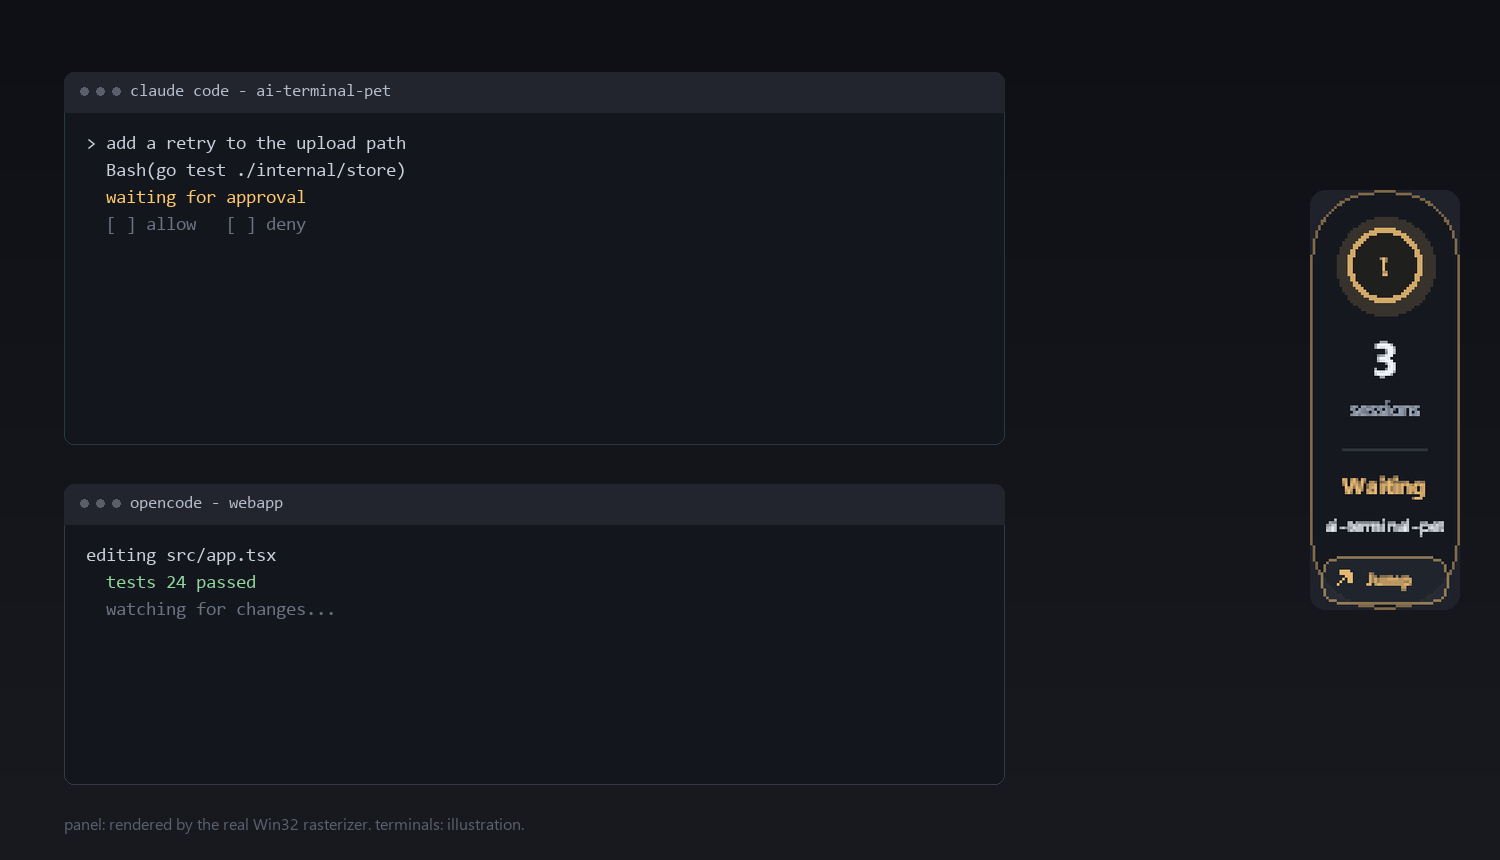
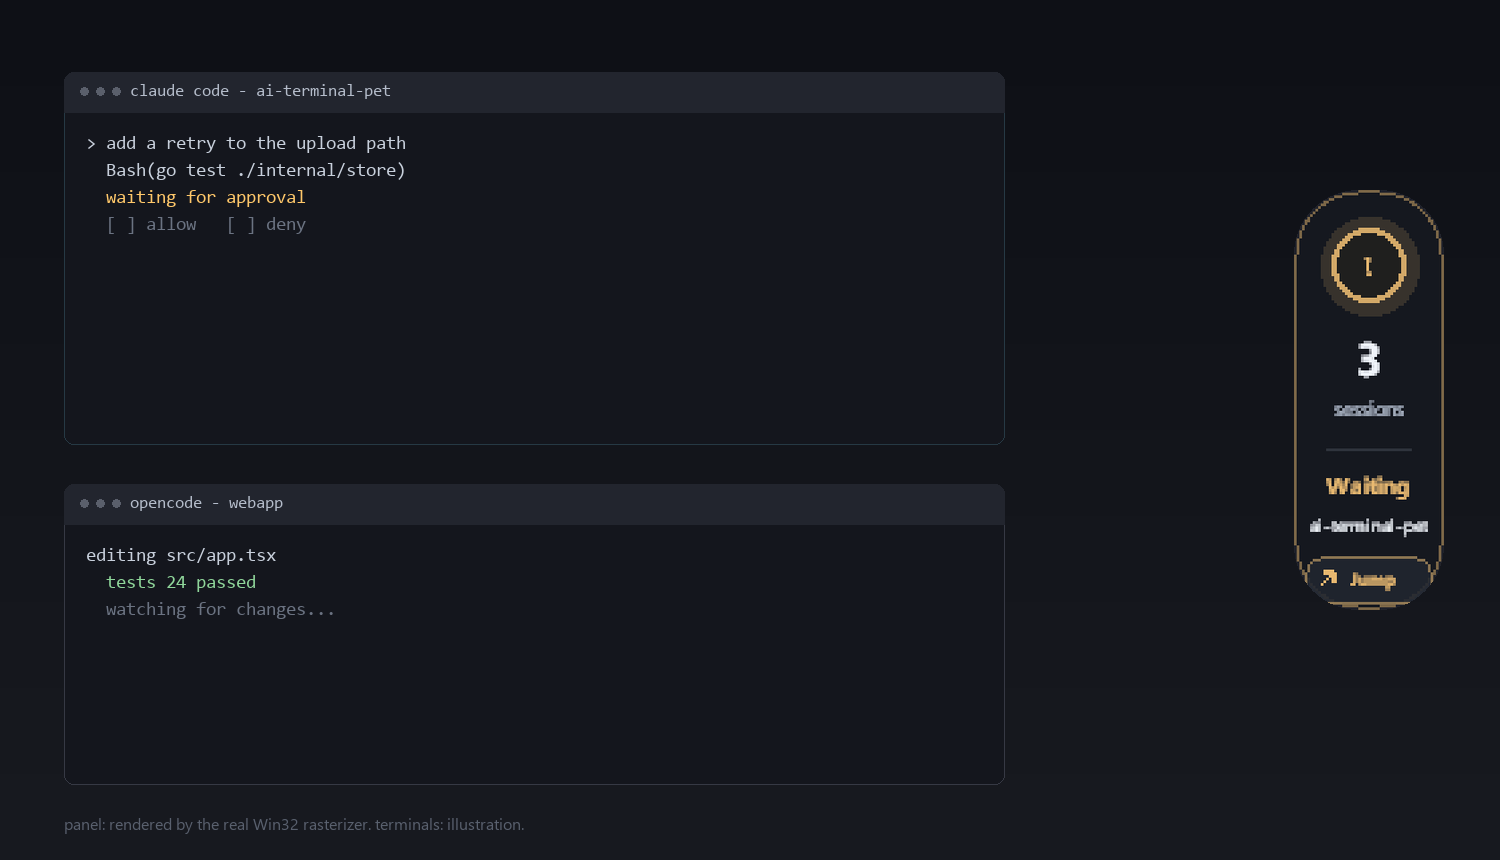
fix(assets): stop cropping the corners off the panel
The panel preview is exactly the canvas - 168x468 for a 56x156 strip at scale 3
- so the rounded frame already touches all four edges. Trimming to the
non-backdrop bounding box then crops the antialiased corner pixels away and
leaves a panel whose corners look sliced, which is what the first version of
desktop-scene.png did: the strip appeared inside a dark rectangle, because the
backdrop showing through the corners was pasted along with it.

The frame is now placed whole, on the overlay's own composite colour, through a
mask whose radius is the rasterizer's min(width/2, 24) logical units rather than
a guessed percentage of the width. The GIF gets the same treatment, which is why
its transparent corners are square now.

Changed region(s): [[0.8587, 0.2116, 0.9813, 0.7256]]

diff --git a/docs/assets/make_launch_assets.py b/docs/assets/make_launch_assets.py
@@ -103,6 +103,15 @@ def load(preview: Path, name: str) -> Image.Image:
     return Image.open(path).convert("RGBA")
 
 
+# trim() is deliberately not used for the two launch assets.
+#
+# The preview PNG is exactly the panel's canvas - 168x468 for a 56x156 strip at
+# scale 3 - so the rounded frame already touches all four edges. Trimming to the
+# non-backdrop bounding box crops the antialiased corner pixels away and leaves
+# a panel whose corners look sliced off, which is what the first version of
+# desktop-scene.png looked like. The backdrop is only visible at the corners,
+# and it is the overlay's own composite colour, so the honest fix is to place
+# the whole frame on that same colour.
 def trim(img: Image.Image, bg=DESKTOP, pad: int = 10) -> Image.Image:
     """Crop the flat backdrop so the panel can be pasted flush anywhere."""
     rgb = img.convert("RGB")
@@ -153,9 +162,9 @@ def breathe(panel: Image.Image, opacity: float) -> Image.Image:
 
 
 def demo_gif(preview: Path) -> Path:
-    compact = trim(load(preview, "compact-waiting-en.png"), pad=0)
-    hovered = trim(load(preview, "compact-waiting-hover.png"), pad=0)
-    expanded = trim(load(preview, "expanded-waiting-en.png"), pad=0)
+    compact = load(preview, "compact-waiting-en.png")
+    hovered = load(preview, "compact-waiting-hover.png")
+    expanded = load(preview, "expanded-waiting-en.png")
 
     # One logical pixel is 3 preview pixels (scale 3) for compact and 2 for
     # expanded, so normalising by panel height keeps the two sizes in the same
@@ -280,7 +289,7 @@ def desktop_scene(preview: Path) -> Path:
     for y in range(height):
         shade = int(10 * (y / height))
         draw.line([(0, y), (width, y)], fill=(0x0E + shade, 0x10 + shade, 0x16 + shade))
-    compact = trim(load(preview, "compact-waiting-en.png"), pad=0)
+    compact = load(preview, "compact-waiting-en.png")
     compact = at_height(compact, 420)
 
     def terminal(x: int, y: int, w: int, h: int, title: str, lines: list[tuple[str, tuple[int, int, int]]], focused: bool) -> None:
@@ -319,12 +328,14 @@ def desktop_scene(preview: Path) -> Path:
     # Pasting through a rounded mask, not the panel's own alpha: the preview PNG
     # is flattened onto the backdrop, so its alpha is opaque everywhere. The
     # mask reproduces what the layered window really does - everything outside
-    # the rounded frame is fully transparent, and the desktop shows through.
-    radius = max(10, int(compact.width * 0.1))
+    # the rounded frame is fully transparent, and the desktop shows through -
+    # and its radius is the rasterizer's own min(width/2, 24) logical units.
+    radius = corner_radius(compact, 56)
     mask = Image.new("L", compact.size, 0)
-    ImageDraw.Draw(mask).rounded_rectangle([0, 0, compact.width - 1, compact.height - 1],
-                                           radius=radius, fill=255)
-    base.paste(compact, (width - compact.width - 40, 190), mask)
+    ImageDraw.Draw(mask).rounded_rectangle(
+        [0, 0, compact.width - 1, compact.height - 1], radius=radius, fill=255
+    )
+    base.paste(compact, (width - compact.width - 56, 190), mask)
 
     draw.text((64, 812), "panel: rendered by the real Win32 rasterizer. terminals: illustration.",
               font=font(16), fill=(0x59, 0x60, 0x6E))
